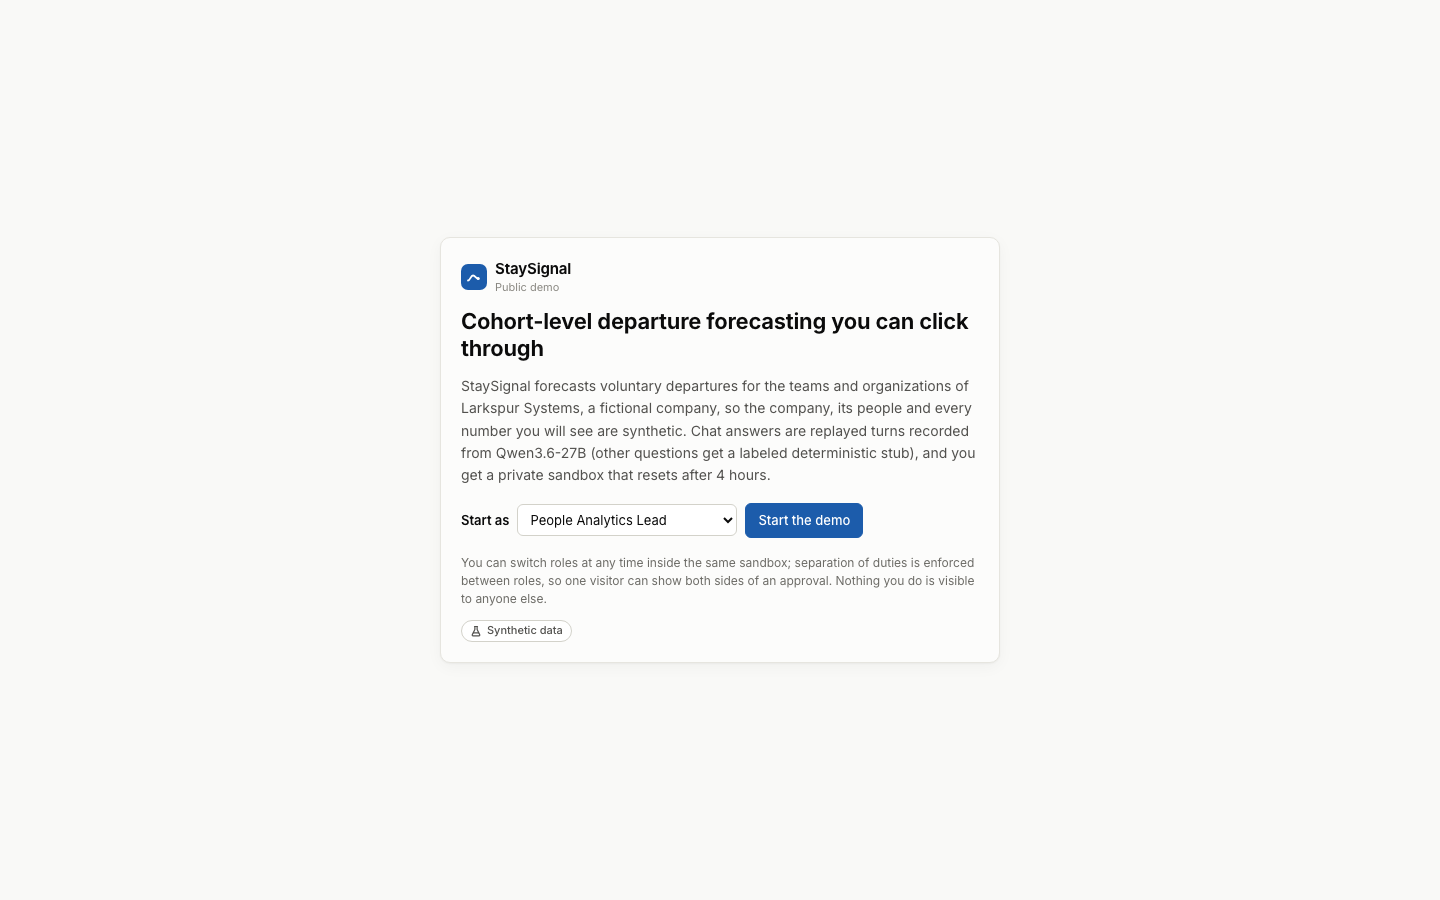
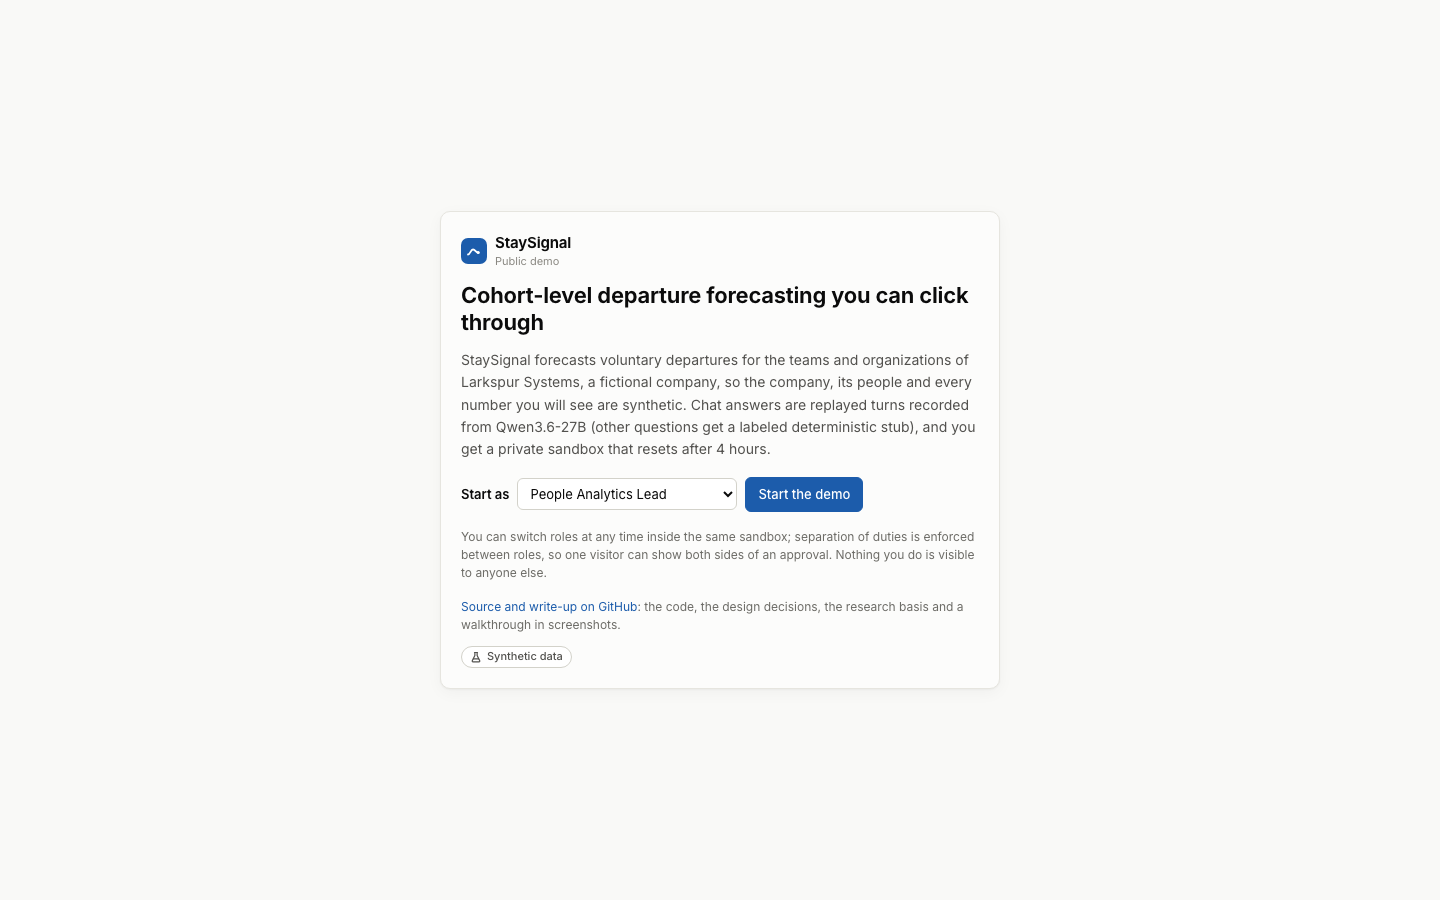
docs(readme): retake the walkthrough by clicking each tour beat
npm run docs:screenshots now clicks each beat of the guided tour as a
visitor would, instead of going to each page by URL, so the 15 images
show the panel closing and the chat opening, the new banner, notes and
provenance lines, and the routine's stepper wrapping in the card.
PROGRESS records the review fixes, the deferred findings with reasons,
the check status and the operator's deploy steps.

Changed region(s): [[0.3125, 0.2489, 0.6875, 0.7467]]

diff --git a/scripts/readme-screenshots.ts b/scripts/readme-screenshots.ts
@@ -1,6 +1,7 @@
 // npm run docs:screenshots: the README walkthrough's screenshots (docs/screenshots/*.png), taken from the public demo
 // (ADR 0018) as a visitor sees it. It builds the app, serves the public demo over https on 8795 (scripts/serve.ts),
-// walks the guided tour in Chromium at 1440 by 900 in the light theme, writes one PNG per beat, and stops the server.
+// clicks each beat of the guided tour in Chromium at 1440 by 900 in the light theme (the beat's "Open as" or "Then as"
+// button, which switches the role, opens the page and closes the panel), writes one PNG per beat, and stops the server.
 // Every number on screen is synthetic and every model answer is a replayed recording.
 import { mkdirSync } from "node:fs";
 import { join } from "node:path";
@@ -22,10 +23,14 @@ async function shot(page: Page, name: string): Promise<void> {
   console.log(`[screenshots] ${name}.png`);
 }
 
-async function role(page: Page, principal: string): Promise<void> {
-  const picker = page.getByLabel("Acting as (demo role)");
-  if ((await picker.inputValue()) !== principal) await picker.selectOption(principal);
-  await expect(page.getByLabel("Acting as (demo role)")).toHaveValue(principal, { timeout: 30_000 });
+/** Clicks a beat of the guided tour as a visitor does: its first role, or (then) its second. */
+async function beat(page: Page, title: string, as: string, then = false): Promise<void> {
+  if (!(await page.getByTestId("tour-panel").isVisible())) await page.getByTestId("tour-toggle").click();
+  const item = page.getByTestId("tour-panel").locator("li", { has: page.locator(".tour-beat-title", { hasText: new RegExp(`^\\d+${title}$`) }) });
+  await item.getByRole("button", { name: then ? /^Then as/ : /^Open as/ }).click();
+  await page.getByTestId("tour-panel").waitFor({ state: "hidden" });
+  await expect(page.getByLabel("Acting as (demo role)")).toHaveValue(as, { timeout: 30_000 });
+  await page.locator("main.content h1").first().waitFor();
 }
 
 async function ask(page: Page, question: string): Promise<void> {
@@ -37,11 +42,6 @@ async function ask(page: Page, question: string): Promise<void> {
     await box.press("Enter");
   }
   await page.locator(".dock .msg.assistant .msg-meta").last().waitFor();
-}
-
-async function go(page: Page, href: string): Promise<void> {
-  await page.goto(`${BASE}${href}`);
-  await page.locator("main.content h1").first().waitFor();
 }
 
 async function main(): Promise<void> {
@@ -59,36 +59,34 @@ async function main(): Promise<void> {
 
     await page.getByTestId("demo-start").click();
     await page.getByTestId("demo-banner").waitFor();
-    await go(page, "/?cohort=org%3AEngineering&h=3");
     // the tour opens by itself on a first visit
-    if (!(await page.getByTestId("tour-panel").isVisible())) await page.getByTestId("tour-toggle").click();
     await page.getByTestId("tour-panel").waitFor();
+    await page.getByTestId("hero-figure").waitFor();
     await shot(page, "02-guided-tour");
-    await page.getByRole("button", { name: "Close the guided tour" }).click();
 
+    await beat(page, "Forecast", LEAD);
     await page.getByTestId("hero-figure").waitFor();
     await ask(page, "Forecast voluntary departures in Engineering over the next 90 days.");
     await page.getByTestId("fan").locator("svg.chart").waitFor();
     await shot(page, "03-forecast");
 
-    await go(page, "/changes?cohort=org%3AEngineering&h=3");
+    await beat(page, "What changed", LEAD);
     await page.getByTestId("waterfall").waitFor();
     await shot(page, "04-what-changed");
 
-    await go(page, "/quality");
+    await beat(page, "Data health", LEAD);
     await page.getByTestId("simulate-arrival").click();
     await page.getByTestId("held-banner").waitFor({ timeout: 60_000 });
     await page.getByTestId("investigation").waitFor();
     await shot(page, "05-data-health-held");
 
-    await role(page, "data-eng@larkspur.example");
+    await beat(page, "Data health", "data-eng@larkspur.example", true);
     await page.getByTestId("mapping").getByTestId("mapping-approve").getByRole("button", { name: "Approve" }).click();
     await page.getByTestId("repaired-banner").waitFor({ timeout: 60_000 });
     await page.getByTestId("replay").getByText("Identical business-result hash").waitFor({ timeout: 60_000 });
     await shot(page, "06-data-health-repaired");
 
-    await role(page, LEAD);
-    await go(page, "/reviews");
+    await beat(page, "Reviews", LEAD);
     await ask(page, "Prepare a People Partner review for Platform Engineering.");
     await page.getByTestId("submit-review").click();
     const review = page.getByTestId("review-REV-0001");
@@ -97,7 +95,7 @@ async function main(): Promise<void> {
     await review.getByTestId("approval-refusal").waitFor();
     await shot(page, "07-reviews-self-approval-refused");
 
-    await role(page, "people-ops-director@larkspur.example");
+    await beat(page, "Reviews", "people-ops-director@larkspur.example", true);
     const again = page.getByTestId("review-REV-0001");
     await again.getByTestId("review-approve").getByRole("button", { name: "Approve" }).click();
     await again.getByText("approved", { exact: false }).first().waitFor();
@@ -108,24 +106,21 @@ async function main(): Promise<void> {
     await page.getByTestId("audit").scrollIntoViewIfNeeded();
     await shot(page, "08-reviews-approved-and-rolled-back");
 
-    await role(page, LEAD);
-    for (const [href, name, testId] of [
-      ["/trust?cohort=company&h=3", "09-trust", "trust-summary"],
-      ["/research", "10-research", "research-hypotheses"],
-      ["/lab", "11-scenario-lab", "lab-recorded"],
-      ["/workforce?cohort=org%3AEngineering&h=3", "12-workforce", "flow-tiles"],
-      ["/governance", "13-governance", "action-audit"],
+    for (const [title, name, testId] of [
+      ["Trust", "09-trust", "trust-summary"],
+      ["Research", "10-research", "research-hypotheses"],
+      ["Scenario Lab", "11-scenario-lab", "lab-recorded"],
+      ["Workforce", "12-workforce", "flow-tiles"],
+      ["Governance", "13-governance", "action-audit"],
     ] as const) {
-      await go(page, href);
+      await beat(page, title, LEAD);
       await page.getByTestId(testId).waitFor();
       await shot(page, name);
     }
-    await role(page, "pa-analyst@larkspur.example");
-    await go(page, "/memory");
+    await beat(page, "Memory", "pa-analyst@larkspur.example");
     await page.getByTestId("memory-log").waitFor();
     await shot(page, "14-memory");
-    await role(page, LEAD);
-    await go(page, "/traces");
+    await beat(page, "Traces", LEAD);
     await page.getByTestId("trace-list").waitFor();
     await page.getByTestId("trace").waitFor();
     await shot(page, "15-traces");

diff --git a/PROGRESS.md b/PROGRESS.md
@@ -11,6 +11,8 @@ Builder log for the commit plan in SPEC.md section 24. Updated in every commit.
 
 ## Position
 
+Mac, 2026-10-15, later: a review of the public demo found ways a visitor's own script could spend the shared account's Durable Object allowances (WebSocket frames the agents SDK stored before any check, RPC on read-only connections) and rough edges a cold visitor would meet; both are fixed (see "2026-10-15 public demo review fixes"), and the operator's deploy steps now end with a CPU check on the deployed URL (Next, item 0). Still not deployed.
+
 Mac, 2026-10-15: the public demo (ADR 0018) is built and pushed, not deployed. `SS_AUTH_MODE=demo` serves anyone a private, expiring sandbox of the whole product behind a signed session cookie, with caps that keep the demo inside half of the Workers Free allowances; the landing page, banner and guided tour are in the app; `npm run deploy -- --demo` renders the Worker `staysignal-demo`; the README has the operator's steps (Public demo) and a walkthrough in screenshots. The operator deploys (Next, item 0).
 
 Mac, evening of 2026-10-13 (the interview is on 2026-10-14). The demo is cached and complete: demo mode replays recorded Qwen3.6-27B output only, and a rehearsal with a sentinel on the model ports recorded no connection from the app. Recorded on this laptop in low-memory mode at the operator's request: five demo chat turns (beats 1, 2 and 5, the coverage and profile questions), two Scenario Lab sessions (compact plan) and four persona interview answers. See "2026-10-13 recordings and fixes" below. Next: nothing is required for the demo; open items are listed in Next.
@@ -156,10 +158,13 @@ A review of the public demo before it is deployed (three lenses: auth and sandbo
 - `fix(demo)`: what a visitor's own script can cost. WebSocket frames now pass the public demo's frame guard before the agents SDK sees them (`src/worker/demo/frames.ts`): the counts (per minute, and `CAPS.wsFramesPerConnection` = 40 in a connection's life) live in the connection's attachment, so hibernation no longer resets them, and a filter decides what reaches the SDK. The AnalystAgent lets through only a chat request, a cancel and the stream-resume handshake: a whole message list, a clear, a tool result or approval, RPC and state frames are dropped (the review measured three 46 KB message lists writing 4,163 rows for 0 units); a chat request spends its 18 units before anything is stored, carries only the server's own history plus the one new question (a turn with a forged 750-message history wrote 33 rows here, as a normal turn does: 31 to 34), and a refused one (too long, spent, ended, busy) is answered on its own stream with nothing stored, the refusal remembered in memory so the sandbox is asked once. A sandbox's WorkspaceAgent connection drops every frame, its callables throw in a sandbox, and approve, reject and rollback refuse a reason over 300 characters before writing (the review measured ten RPC frames writing 1.2 MB of audit rows for 0 units). In the public demo `/agents-ws/*` forwards WebSocket upgrades only (a plain request used to create a conversation object that nothing ever deleted). An upgrade spends `UNITS.socket` = 2 units. The Worker remembers a sandbox's refusal per isolate (`src/worker/demo/refusals.ts`): a spent, ended, retired or rate-limited sandbox is refused without a Durable Object request. The gate counts an IPv6 client by its /64 (`clientPrefix`) and counts live and daily sandboxes for the current signing key only (`demoKeyId`, a `kid` column), so a key rotation frees it at once. The budget now also bounds rows read (measured: at most 24 a unit, 158 to seed; bound 50 and 400) and Durable Object duration (wall-clock at most 35 ms a unit under the test runner; bound 250 ms, three objects, 128 MB: 864 GB-s a day against 6,500). Tests: `test/worker-public-demo/abuse.test.ts` (11, of which 4 fail with the frame filters removed), the budget test's socket entry and new measurements, the node guard tests.
 - `fix(web)`: a cold visitor's path. A spent sandbox no longer reads as "busy" and then a blank page polling `/api/me` every 5 seconds: the client keeps the server's 429 code and message, retries only a rate limit (after its Retry-After), and on `SANDBOX_SPENT` stops asking and shows "This sandbox is used up" with "Start a fresh sandbox" (a reset spends no units). The guided tour panel is rendered into the document body (inside the sticky header its z-index sat below the phone's tab bar and the Ask button, so the last beat could not be clicked), closes after every beat on every screen, and a beat that suggests a question opens the chat (on desktop the panel used to cover the dock). Every role lands on a cohort it may see: the server lists each principal's assigned organizations, a sign-in or role switch points the URL at the role's cohort (the company for the Auditor and the Data Engineer, the first assigned organization for a People Partner), pages without a cohort use it, and the cohort picker moves an unreadable cohort to one the role may read (before: three of the seven roles opened on `NOT_PERMITTED` or `NOT_ASSIGNED`). The landing page, the banner and the spent screen link the source repository; a busy landing links the README walkthrough. The routine card says, in the public demo, that the engine's jobs return results recorded from the engine on the author's laptop while the workflow, gates, approval and audit run live, and that the three specialist reports are templates; the banner says "recorded model and engine output". The tour's progress is cleared by a new sandbox; a refused approval attempt is a note on the review's submitted stage, not a stage of its own; the Lab names a session without its transport suffix; long steppers wrap instead of scrolling out of the card. The public-demo e2e no longer closes the panel itself: it checks that the panel closed and that the chat input is the topmost element on the beats that ask, clicks the phone's last beat, starts as the Auditor and the Go-to-market People Partner, and spends a sandbox, reloads and starts a fresh one (5 tests).
 - `fix(demo)`: what the chat says it is, in the public demo. A replayed answer's provenance line and the dock's note no longer say the numbers "compute live from the warehouse" (the public demo has none): "Tools run live in your sandbox; their numbers come from results exported from the synthetic warehouse." A replayed turn's trace span is "replay: recorded turn" with no token counts, not "generate"; the Traces page shows its model as "recorded turn, replayed". Each role is offered only the recorded questions whose recorded tool calls it may run (`recordedFor`: the recordings were made as the People Analytics Lead and their tools run under the visitor's role, so the Go-to-market People Partner was offered Engineering questions that its tools then refused); a tool's refusal reads "Refused by the tool's permission check", not "Refused before any model call: tool". Tests: the lifecycle test checks the new line, the replay span and the questions offered to the lead, the two People Partners and the Auditor.
+- `fix(web)`: no Clear button in the public demo's chat (the frame guard drops a clear, so the conversation would come back on reload; "Reset my sandbox" starts afresh). `chore(deploy)`: the public demo's Worker logs one invocation in ten (`head_sampling_rate` 0.1), and the deploy rules refuse a public demo config that samples more. `npm run deploy -- --demo --dry-run`: 6.46 MiB uncompressed, 1.01 MiB gzip, bindings as before.
+- `docs`: ADR 0018 states the frame guard (decision 7), the 40-frame connection allowance, the 2-unit upgrade, the /64 and key-fingerprint rules of the gate, rows read and duration in the budget table, what bounds refused traffic, and the residual risks (the daily cap can be used up on purpose; error 1027; no WAF on workers.dev; the CPU reading, with the review's profiles: a sign-in about 20 ms, a reset about 40 ms, a chat turn 44 to 146 ms under `wrangler dev`). The README names the URL the demo will have, says it is not deployed, adds a `wrangler tail` check of `outcome` and `cpuTime` before the link is shared, and a "Limits and risks" paragraph; the walkthrough says the engine's jobs are recorded in the public demo and the specialist reports are templates. `docs(readme)`: the 15 walkthrough screenshots retaken by `npm run docs:screenshots`, which now clicks each beat of the guided tour as a visitor would (before, it went to each page by URL), so the images show the panel closing, the chat open, the new banner, notes and provenance lines, the Data Engineer on the company cohort, and the routine's stepper in two rows.
+- Not done, with the reason. The auth and sandbox lens of the review returned no findings (its write-up was lost; its `worker-public-demo` run passed 41 of 41); it was not rerun here, so the session cookie, the role switch and isolation have only their existing tests and this round's changes. Cloudflare Turnstile on sign-in: deferred, it needs a widget (site key and secret) created on the account, which builders never create; the ADR and README state the risk it would close. A shared read-only showcase sandbox when the gate is full: deferred, a new mode rather than a fix; the busy message links the walkthrough in screenshots instead. A check in `deploy.ts` that the account is on Workers Free: deferred, wrangler does not report the plan and the Cloudflare API needs a token the deploy does not hold; the operator's first step reads it in the dashboard (the account is on Free per the operator's notes). Splitting the sandbox seed across invocations: deferred until the operator's `wrangler tail` shows `exceededCpu` on a sign-in. Keying IPv4 clients by /24: rejected, it would merge separate visitors behind one carrier or office network into one client and lock them out together.
 
 ## Next
 
-0. The operator deploys the public demo, from the repository root: `npm run deploy -- --demo --dry-run`, then `openssl rand -base64 48 | npx wrangler secret put SS_DEMO_SIGNING_KEY --name staysignal-demo`, then `npm run deploy -- --demo --yes`; the demo is then at `https://staysignal-demo.<workers.dev subdomain>.workers.dev`. After the first visitors, read the Worker's and the Durable Objects' daily usage in the Cloudflare dashboard against ADR 0018's table (the doctor does not read usage yet).
+0. The operator deploys the public demo, from the repository root, exactly as README, Public demo lists: `npx wrangler whoami` (the account that owns `nitish-ratakonda.workers.dev`; the dashboard's Workers plan reads Free), `npm run deploy -- --demo --dry-run`, `openssl rand -base64 48 | npx wrangler secret put SS_DEMO_SIGNING_KEY --name staysignal-demo`, `npm run deploy -- --demo --yes`; then, with `npx wrangler tail staysignal-demo --format json` running, sign in at https://staysignal-demo.nitish-ratakonda.workers.dev and ask one recorded question, and check each event's `outcome` (`ok`, not `exceededCpu`) and `cpuTime` before sharing the link. After that, the README's "will be a link ... not deployed yet" becomes "is", and `gh repo edit nitishsjsucs/staysignal --homepage https://staysignal-demo.nitish-ratakonda.workers.dev` sets the repository's website. After the first visitors, read the Worker's and the Durable Objects' daily usage in the Cloudflare dashboard against ADR 0018's table (the doctor does not read usage yet).
 0. Cloud session handoff tasks 1 to 7 are done (the code paths; what needs the 27B or production access stays on the Mac). Open from them: the other nine phase-2 checks of SPEC 13.1 are not built; the research run suggests looking at why the clean base world's O/E sits at about 0.96 to 0.97 (a follow-up study, not a change to the pre-registration). The 1.7B agent eval was rerun on the Mac with the cohort guard (commit 46: 0 injection successes, refusal accuracy 100%).
 1. Keep CI green. Remaining SPEC 24 work in order: the 27B items (item 3); M4's 27B recordings and the recorded interview answers (under "Scenario Lab: to do on the Mac"; the live interview itself is built, commit 50); the other nine phase-2 checks of M5; M8's production steps, which only the owner runs. Done since this list was written: M5's F04, R02 and R04 with the fault benchmark at 25 of 25 (commit 35) and the shock-world recovery test (commit 39); M7's 20-seed research run and the Research page (commit 45); M8's `prod:validate`, `prod:load`, `runner:prod` (commit 37) and `prod:smoke` (commit 38).
 2. Done in the cloud session (commit 33): the 12 baselines and the CI `e2e` job. To remake baselines after a UI change from the Mac (Colima under qemu still crashes Chromium): `gh workflow run baselines.yml --ref main` (commit 48: the same Playwright image and environment as the CI `e2e` job, `npx playwright test --update-snapshots`, diffs do not fail the job), then `gh run download <id> -n screenshot-baselines -D test/e2e/__screenshots__`, commit, and CI `e2e` compares exactly. On an amd64 machine `npm run test:e2e -- --update` does the same locally.
@@ -176,6 +181,8 @@ A review of the public demo before it is deployed (three lenses: auth and sandbo
 - Qwen3-1.7B through `@ai-sdk/openai-compatible`: 4 of 4 questions routed to the right tool, with invented arguments in 2 (run ids for `explain_change`, a node name copied from the tool description). The server must default and validate run ids, never trust them.
 
 ## Check status
+
+At the public demo review fixes (on the Mac, 2026-10-15, no model server running): `npm run typecheck` clean; `npm test` 319 passed in 56 files (new: `test/worker-public-demo/abuse.test.ts`, 11 tests; the budget test's socket entry, rows read and wall-clock bounds; the node guard, budget and free-plan tests); `npm run test:e2e:public-demo` 5 passed (the tour as a visitor clicks it, the phone's last beat, two roles landing on their cohorts, a spent sandbox, the per-client cap: about 371 units in 163 Worker requests and 14 upgrades); `npm run test:e2e:local` 20 passed; `npm run deploy -- --demo --dry-run` 6.46 MiB; `check:prose` and `check:hygiene` clean; `npm run docs:screenshots` retook the 15 images.
 
 At the public demo commits (on the Mac, 2026-10-15, no model server running): `npm run typecheck` clean; `npm test` 305 passed in 55 files (new: the `worker-public-demo` project, 41 tests in 7 files, and `test/node/demo-budget.test.ts`); `npm run test:e2e:local` 20 passed (the existing flows and pages unchanged); `npm run test:e2e:public-demo` 3 passed; `npm run deploy:dry-run` 6.45 MiB for each of the three configs; `typegen:check`, `check:prose`, `check:hygiene`, `results:check`, `evals:check` and `fixtures:check` clean; the operator's secret scan of `git archive HEAD` printed nothing. CI on GitHub: green on every job for the push of `test(e2e)`, including the screenshot baselines (unchanged) and the new public-demo e2e step in the amd64 Playwright image.
 
